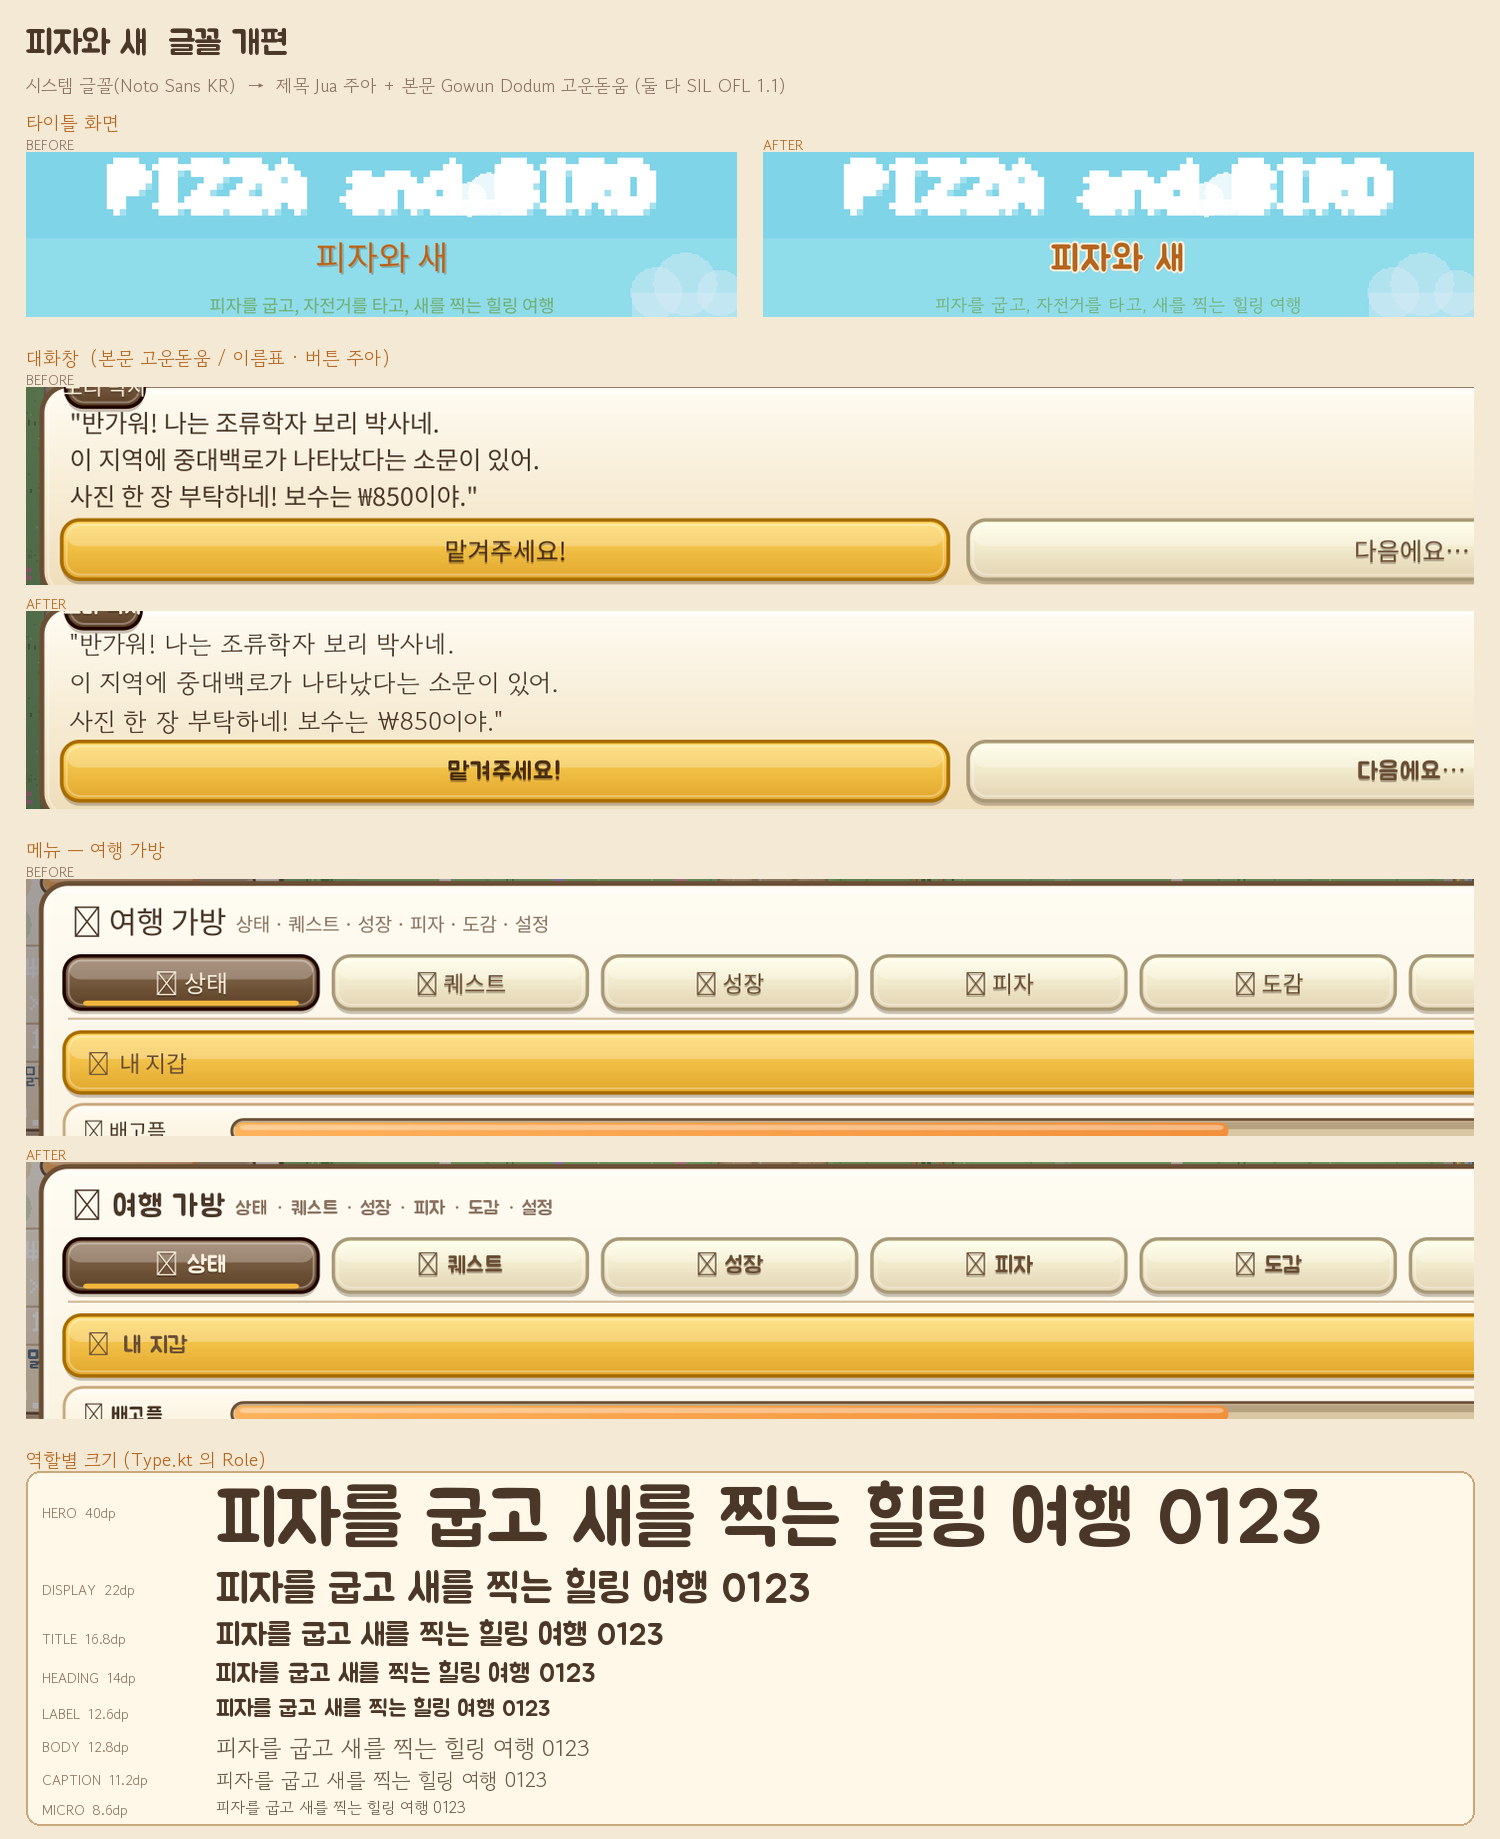
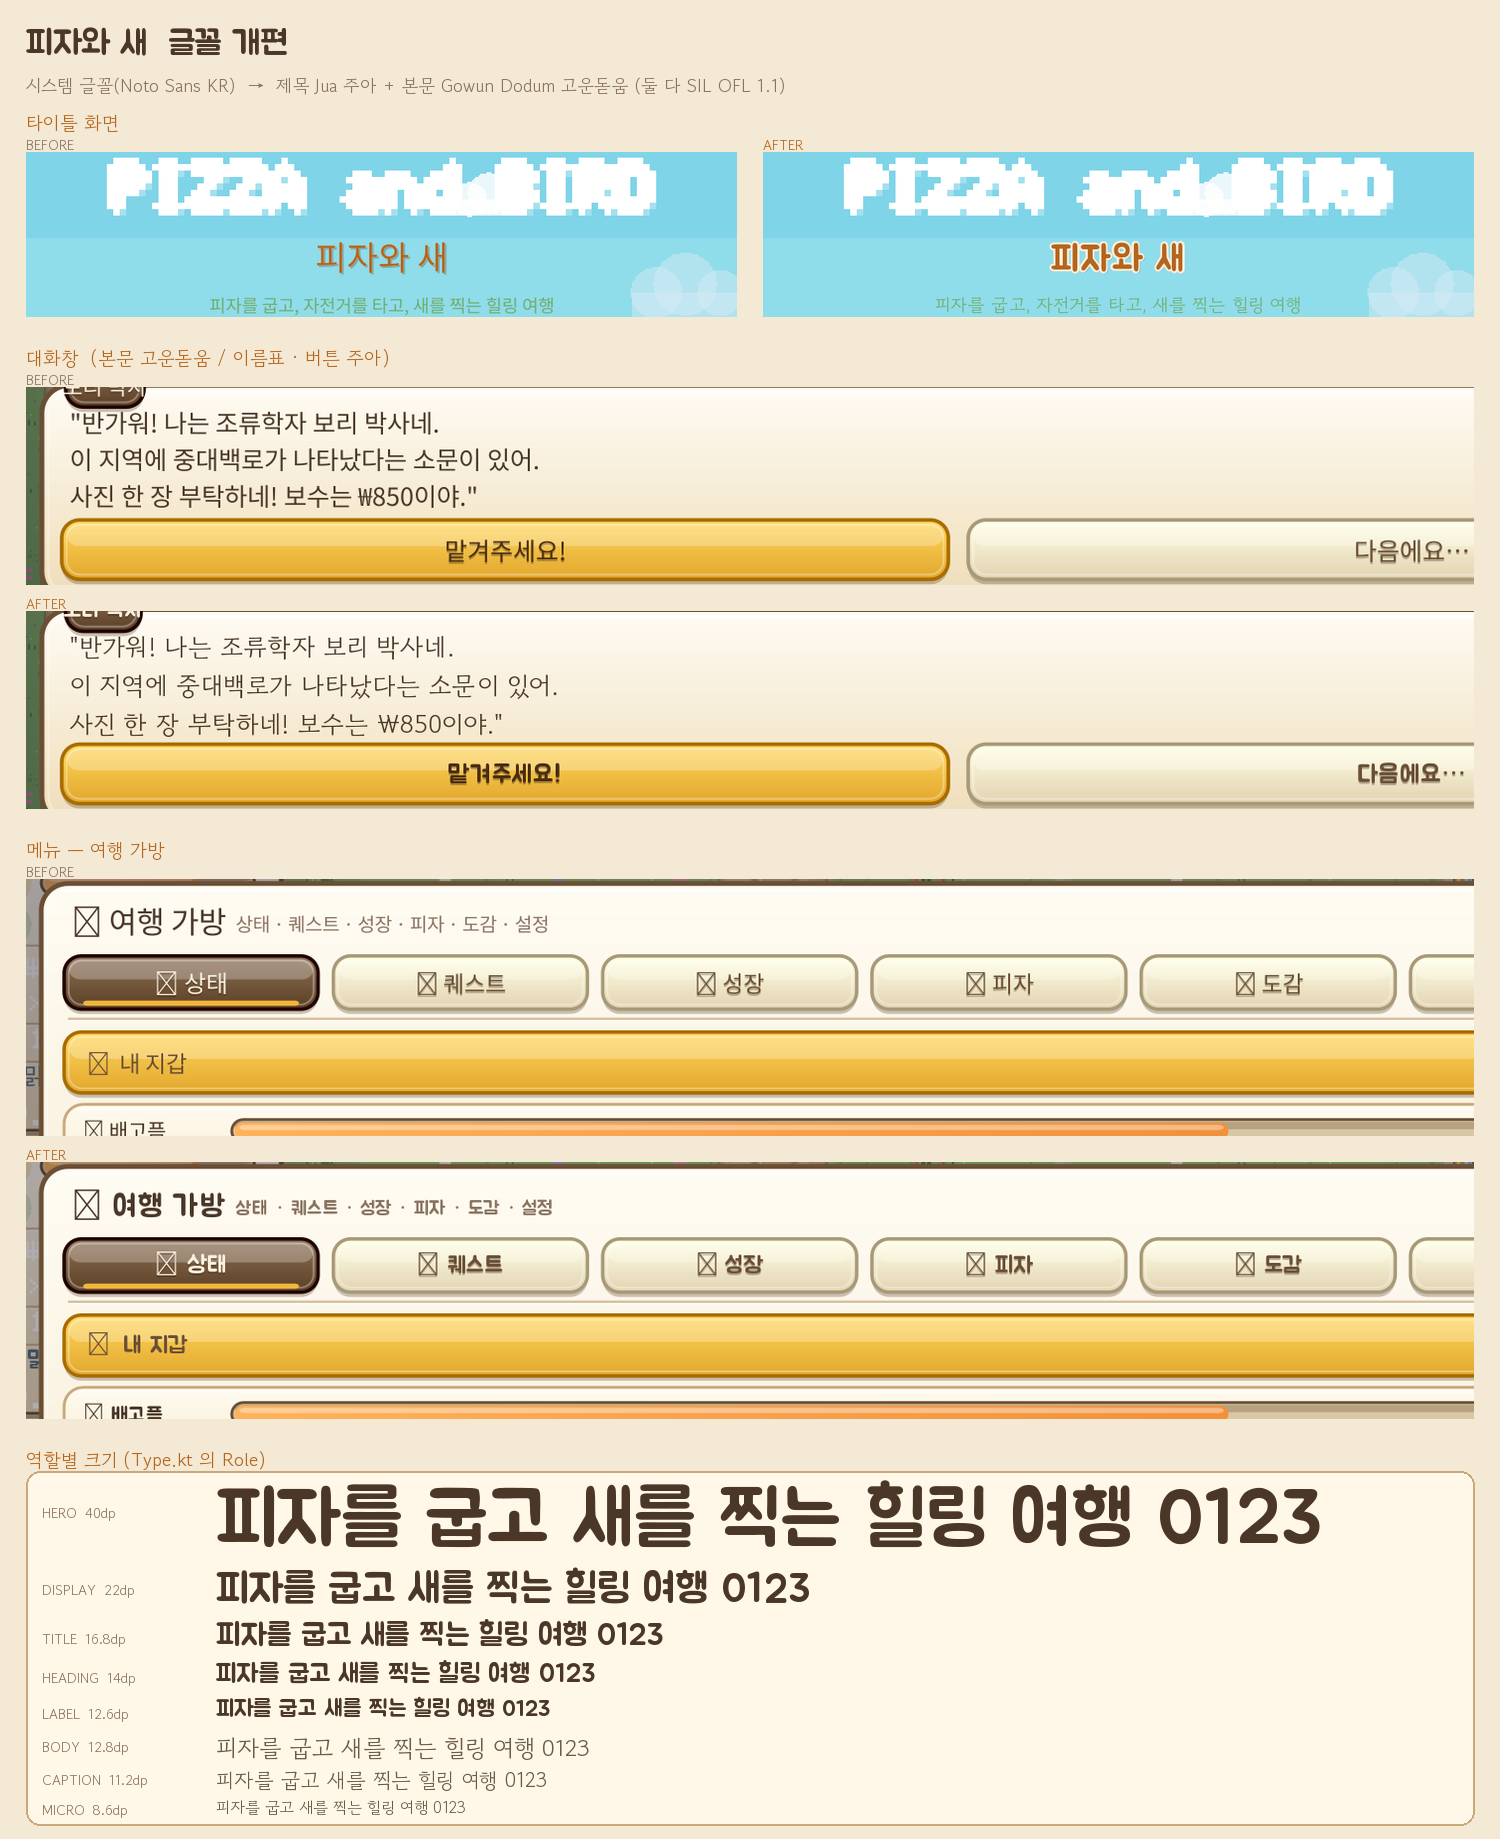
fix: 문자열 템플릿에 한글이 바로 붙어 컴파일이 깨지던 곳 수정
"$count개를" 은 Kotlin 이 count개를 를 식별자로 읽어 컴파일 오류가 난다.
${count}개를 로 감싸고, 새 글꼴 반영본으로 타이포그래피 비교 이미지도 갱신.

Changed region(s): [[0.0307, 0.31, 0.9813, 0.4649]]

diff --git a/app/src/main/java/com/pizzaandbird/game/Overlays.kt b/app/src/main/java/com/pizzaandbird/game/Overlays.kt
@@ -1553,7 +1553,8 @@ class HomeDecorOverlay(scene: Scene) : Overlay(scene) {
         if (autoRect.contains(tap.x, tap.y)) {
             val count = s.autoArrangeDecors()
             SaveManager.save(g.context, s)
-            g.toast("보유 소품 $count개를 순서대로 정리했어요 ✨")
+            // 한글이 바로 붙으면 식별자로 먹히므로 ${} 로 감싼다
+            g.toast("보유 소품 ${count}개를 순서대로 정리했어요 ✨")
             g.sfx(Audio.Sfx.SUCCESS, 0.6f)
             return
         }
